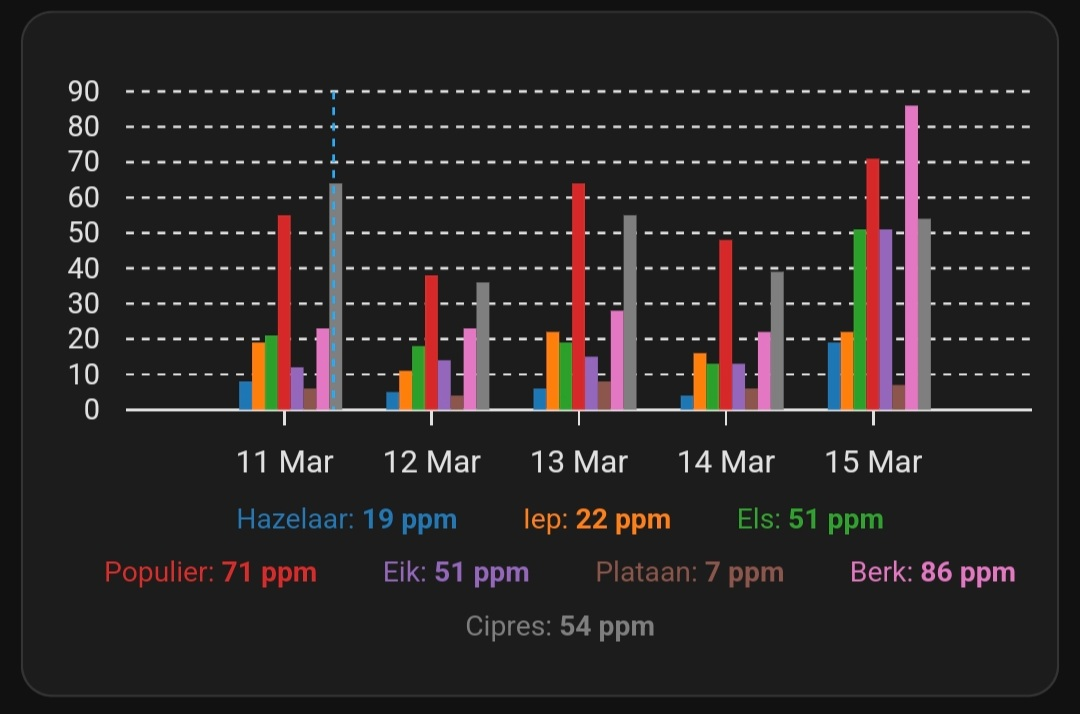
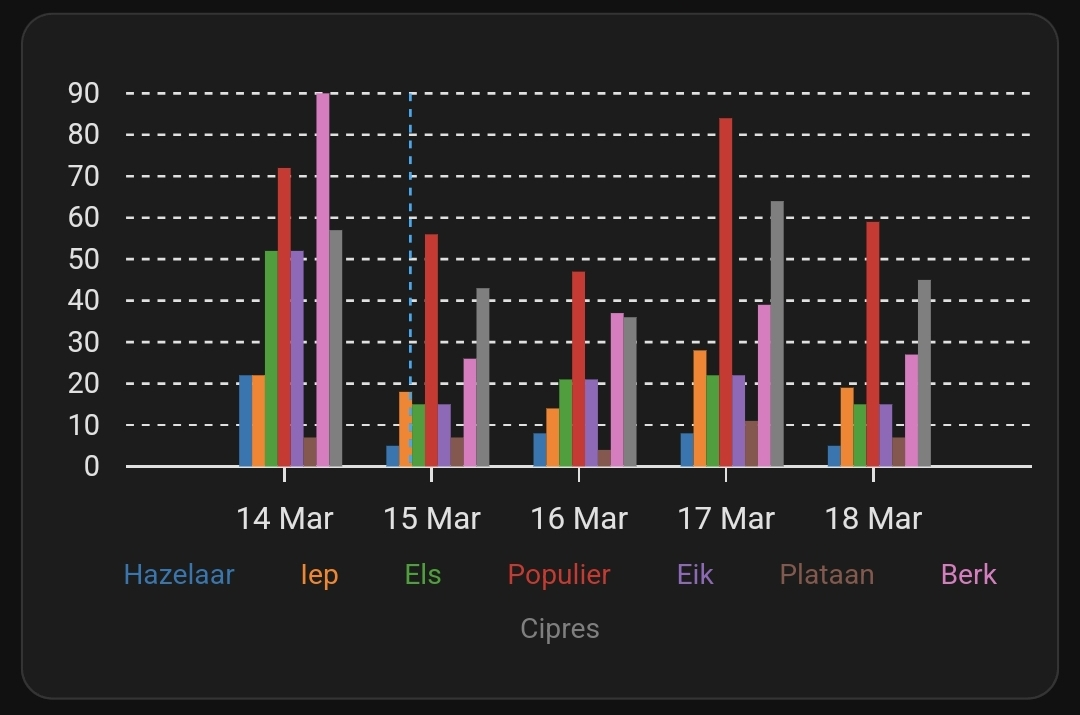
HA integration Kleenex

diff --git a/homeassistant/homeassistant_hacs_kleenex.md b/homeassistant/homeassistant_hacs_kleenex.md
@@ -792,6 +792,8 @@ cards:
 ---
 ### Specific subtypes forecast
 
+#### ApexCharts
+
 I created a bar graph with all tree data for the upcoming days.
 I used for this presentation the HACS [ApexCharts Card](https://github.com/RomRider/apexcharts-card) integration.
 
@@ -816,6 +818,9 @@ now:
 graph_span: 4d
 span:
   start: day
+all_series_config:
+  show:
+    legend_value: false  
 series:
   - name: Hazelaar
     entity: sensor.kleenex_pollen_radar_huis_trees
@@ -942,14 +947,59 @@ apex_config:
 ```
 </details>
 
-The values in the legend are the ones from the last date.
-> If you know how to hide the legend values, please let me know!
+---
+#### Markdown table
 
+I created a table, based on a Markdown Card, with all tree data for today.
+
+<a href="images_kleenex/attribute_tree_data_table.jpg">
+<img src="images_kleenex/attribute_tree_data_table.jpg" alt="kleenex table presentation" width="400px">
+</a>
+
+<details>
+  <summary><b>> Click here to see the corresponding dashboard YAML code >></b></summary>
+
+```yaml
+{% raw %}
+# Sourcecode by vdbrink.github.io
+# Markdown Card Configuration
+type: markdown
+content: >-
+  <table width="100%">
+    <thead>
+      <tr>
+        <th align="left">Tree</th>
+        <th align="left">Value</th>
+        <th align="left">Level</th>
+      </tr>
+    </thead>
+    <tbody>
+  {% set pollen =
+  states.sensor.kleenex_pollen_radar_huis_trees.attributes.current.details %}
+  {% for tree in pollen %}
+    <tr>
+      <td>{{ tree.name }}</td>
+      <td>{{ tree.value }}</td>
+      <td>{{ tree.level }}</td>
+    </tr>
+  {% endfor %}
+    </tbody>
+  </table>
+card_mod:
+  style: |
+    ha-card {
+      font-size: 14px;
+    }
+{% endraw %}
+```
+</details>
+
+---
 <br>
 
 Good luck with the integration!
 
-Any questions or suggestions?
+Any questions or suggestions?\
 Please let me know then I can improve this page for the next reader.
 
 ---
